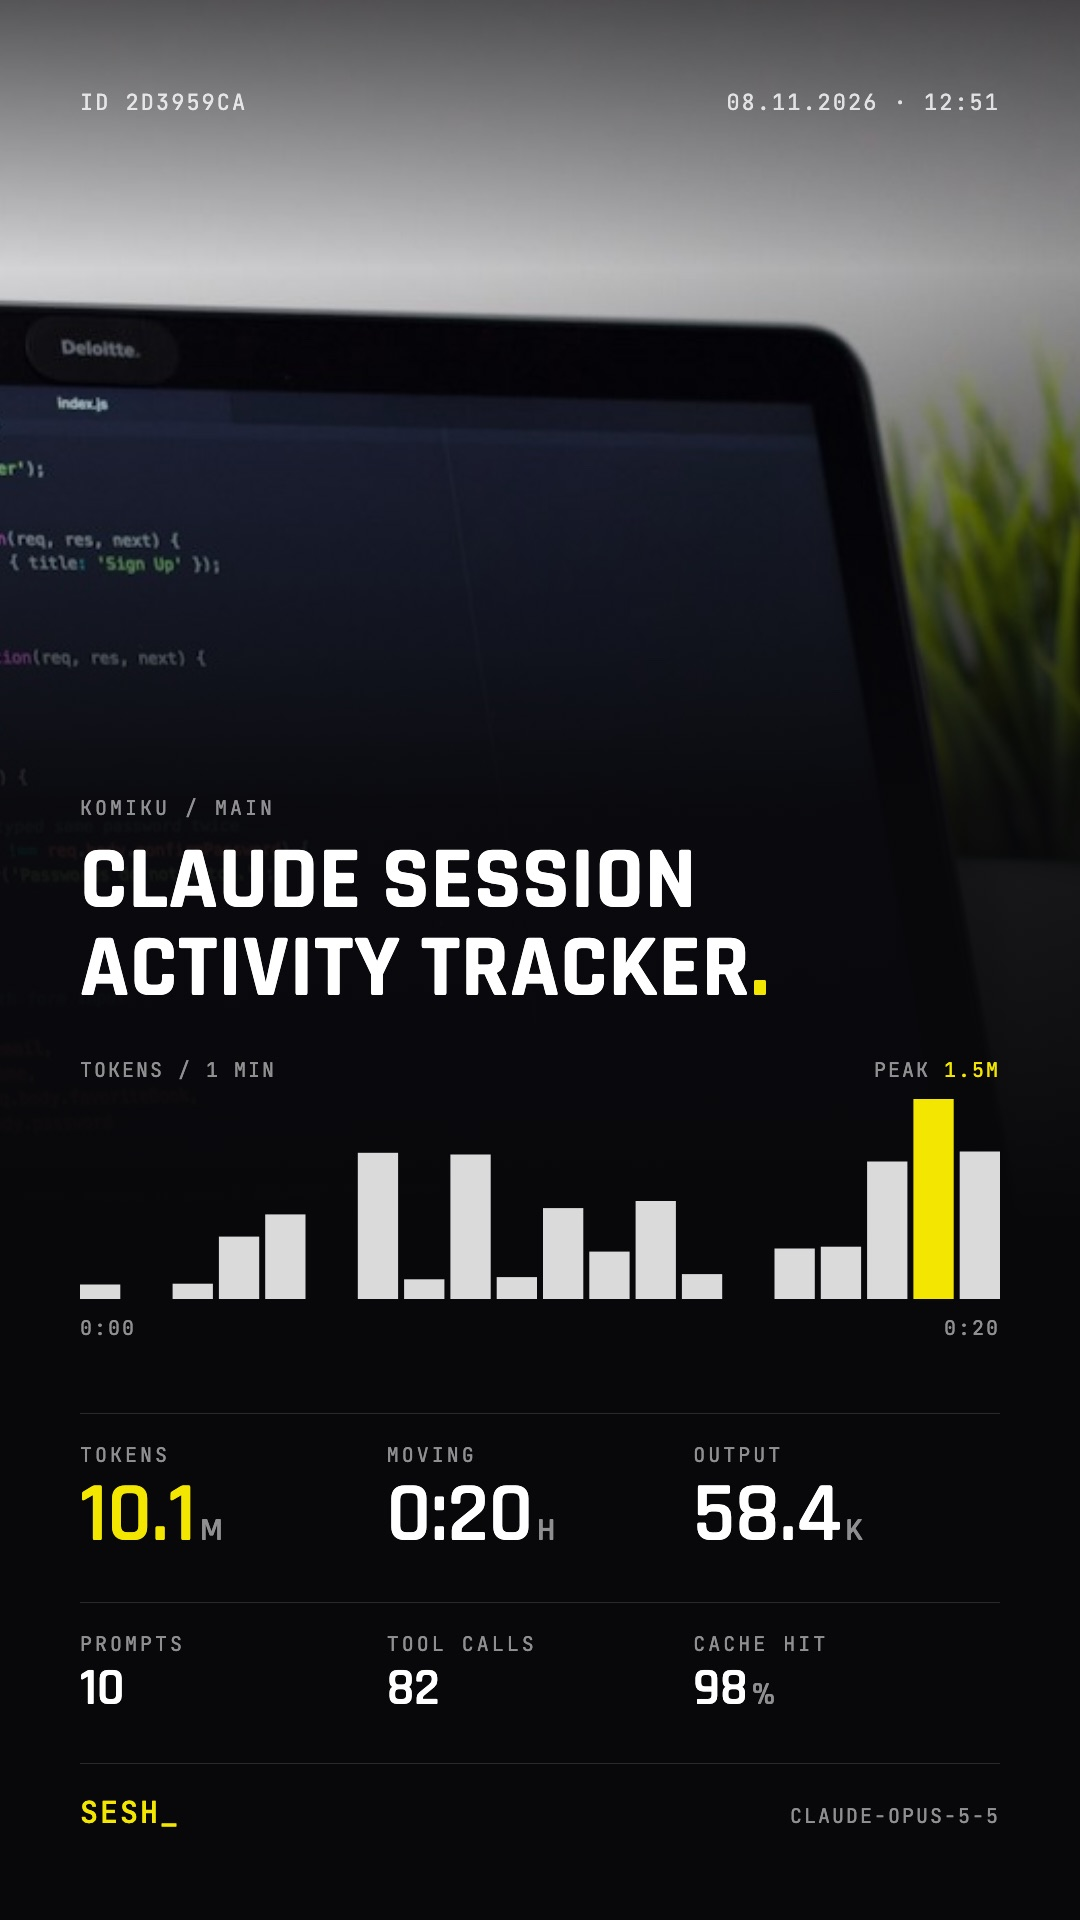
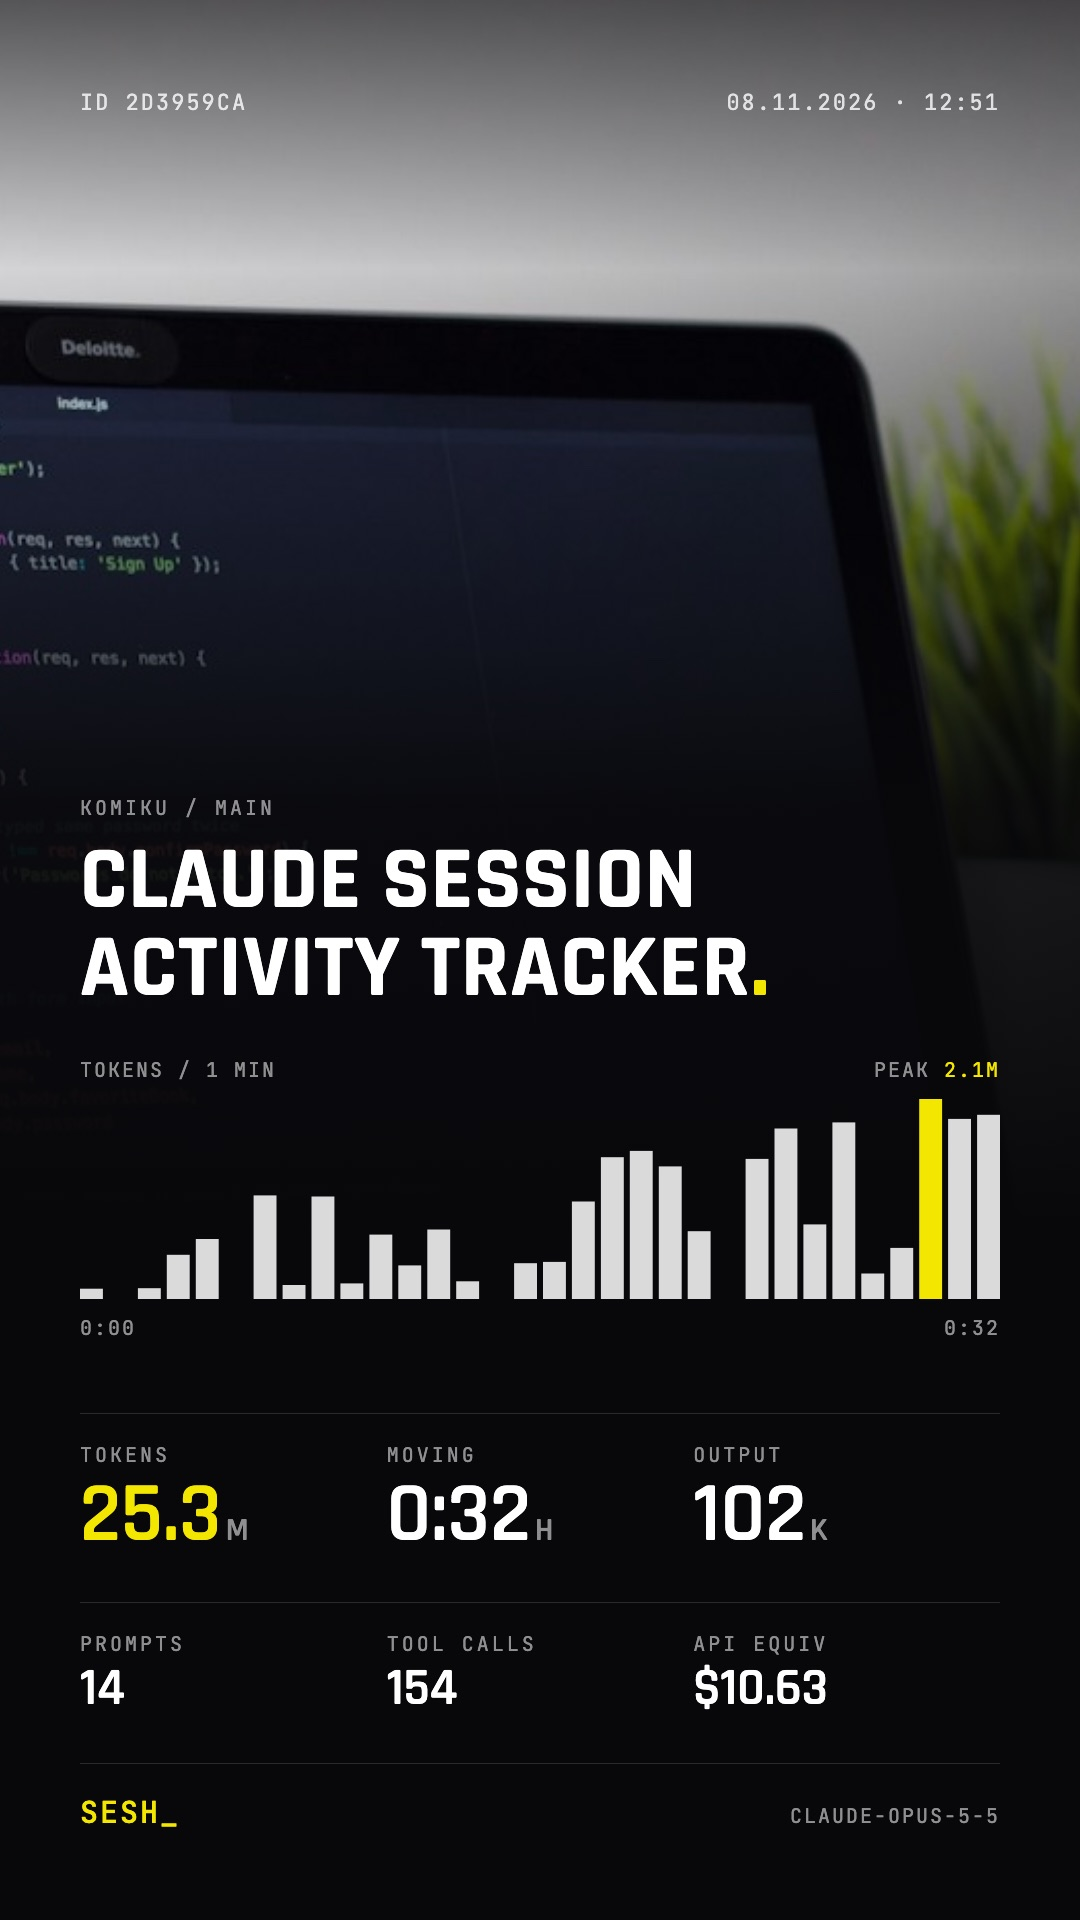
feat: API equiv, what the session would cost at API list prices
- Price every response on its own model and token types: input, output,
  cache read, 5m and 1h cache writes, fast mode, Haiku 5.5 long-prompt tier
- Codex: price each request from last_token_usage, long-context tier for gpt-5.x
- Unknown models show as a dash instead of a guess; partial pricing gets a plus
- Replace the Cache hit tile with API equiv
- Prices from the official Anthropic and OpenAI pricing pages, checked 2026-11-08

diff --git a/README.md b/README.md
@@ -20,7 +20,7 @@
 $ /sesh --photo ~/desk.jpg
 
 sesh  Claude session activity tracker
-      10.1M tokens · 0:20 moving · 10 prompts · 82 tool calls · claude-opus-5-5
+      25.3M tokens · 0:32 moving · 14 prompts · 154 tool calls · $10.63 API equiv · claude-opus-5-5
 card  ~/sesh/20261108-2d3959ca.png
 ```
 
@@ -97,11 +97,15 @@ What lands on the card and where it comes from.
 | **Output** | tokens the model wrote | `usage.output_tokens` | `output_tokens` |
 | **Prompts** | messages you typed, slash commands included, `/sesh` excluded | main transcript only; subagent instructions are not counted | `user_message` events, else real user messages |
 | **Tool calls** | every tool invocation, subagents included | `tool_use` blocks | `function_call` items |
-| **Cache hit** | share of prompt tokens served from cache | cache read ÷ (input + cache read + cache write) | cached ÷ input |
+| **API equiv** | what the session would cost at standard API list prices; `—` when the model has no published price, `+` when only part of it does | each response priced on its own model: input, output, cache read, 5m and 1h cache writes, fast mode, Haiku 5.5 long-prompt tier | each request priced from `last_token_usage`: input, cached input, cache writes, output, long-context tier |
 | **Chart** | tokens per bucket over moving time, peak in yellow | per response | per `token_count` delta |
 | **Title** | session title, else your first prompt | `custom-title` / `summary` | thread name / first prompt |
 
 Transcripts are read from `~/.claude/projects/` and `~/.codex/sessions/`.
+
+### About API equiv
+
+Most people run Claude Code and Codex on a subscription, not pay-per-token. **API equiv** answers a different question: what this session would have cost at standard API list prices. Prices come from the official pricing pages, are stored in [`pricing.mjs`](skills/sesh/scripts/pricing.mjs) with the date they were checked, and exclude batch discounts, data residency uplifts and taxes. Models routed through a third-party provider or proxy are shown as `—` rather than guessed.
 
 ### Which session
 
